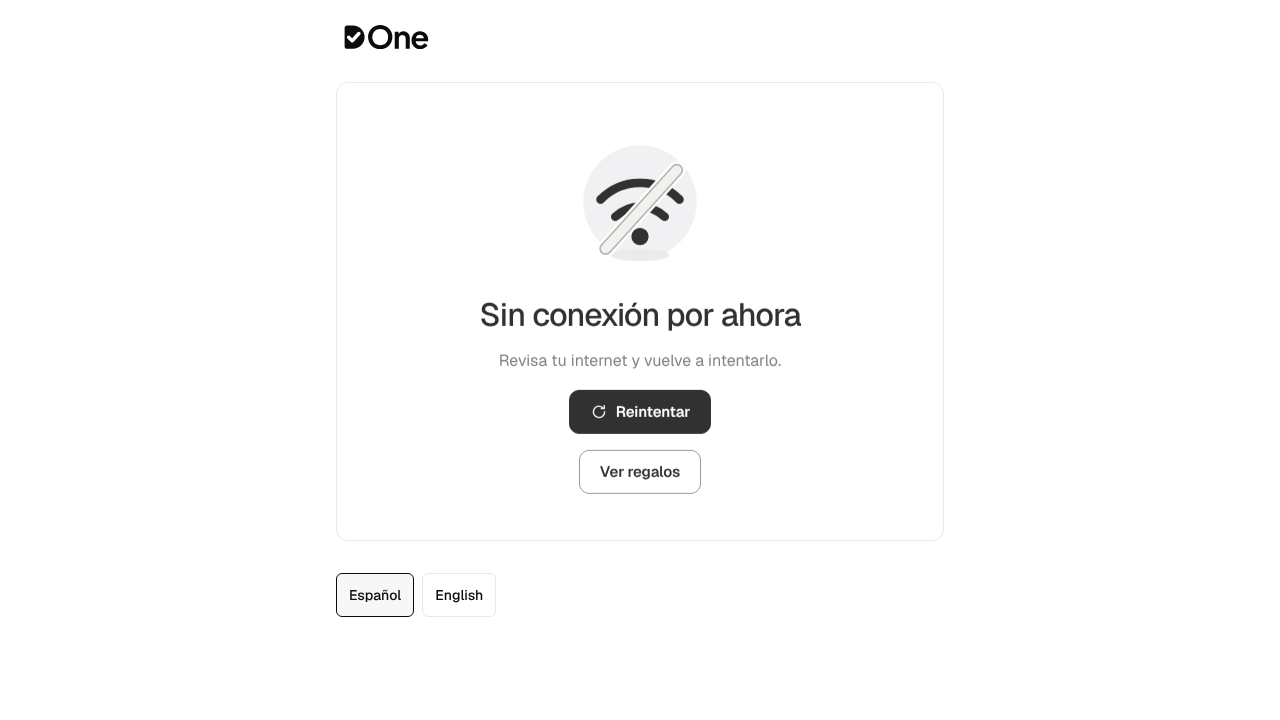
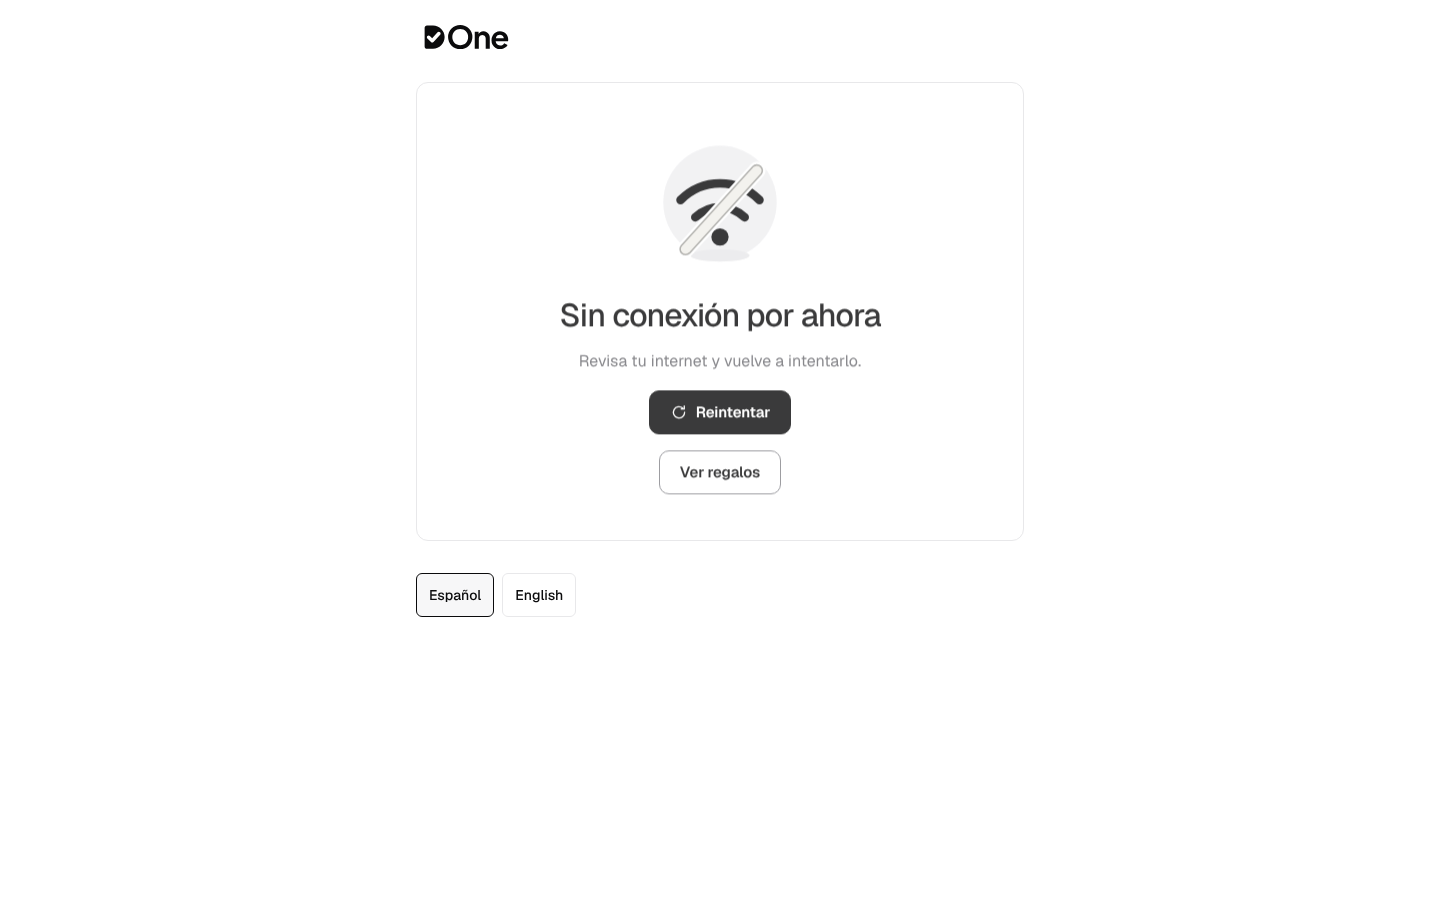
docs(progress): ronda 2 de F6-b, tamaños de bundle y evidencia (PL-134-R2-M1..M3)
Claude-Session: https://claude.ai/code/session_01ATKb2KvLigb6KdicRVkqPt

diff --git a/apps/universal/playwright.states.config.ts b/apps/universal/playwright.states.config.ts
@@ -15,8 +15,9 @@ export default defineConfig({
   testDir: "./e2e",
   testMatch: /preview-states\.spec\.ts/,
   workers: 1,
+  timeout: 150_000,
   reporter: "list",
-  use: { baseURL: `http://localhost:${STATES_PORT}`, launchOptions: { ...(executablePath ? { executablePath } : {}) } },
+  use: { baseURL: `http://localhost:${STATES_PORT}`, locale: "es-BO", launchOptions: { ...(executablePath ? { executablePath } : {}) } },
   webServer: [
     { command: "npx vite-node scripts/visual-mock.ts", url: `http://localhost:${MOCK_PORT}/celebrations`, reuseExistingServer: false, timeout: 60_000, env: { MOCK_PORT: String(MOCK_PORT) } },
     { command: `npx expo start --web --port ${STATES_PORT} --clear`, url: `http://localhost:${STATES_PORT}`, reuseExistingServer: false, timeout: 240_000, env: { CI: "1", EXPO_PUBLIC_API_URL: `http://localhost:${MOCK_PORT}`, EXPO_PUBLIC_DEV_ACCESS_TOKEN: HOST_TOKEN, EXPO_PUBLIC_SITE_URL: `http://localhost:${SITE_PORT}` } }

diff --git a/apps/universal/e2e/preview-states.spec.ts b/apps/universal/e2e/preview-states.spec.ts
@@ -7,7 +7,7 @@ const OUT = process.env["STATES_EVIDENCE_DIR"];
 
 test("PL-134-R2-m3 · the host preview shows the offline state when the site does not answer, and retry goes back to loading", async ({ page }) => {
   await page.setViewportSize({ width: 390, height: 844 });
-  await page.goto(`/preview?c=${MOCK_CELEBRATION_ID}`, { waitUntil: "domcontentloaded" });
+  await page.goto(`/preview?c=${MOCK_CELEBRATION_ID}`, { waitUntil: "domcontentloaded", timeout: 120_000 });
   const error = page.getByTestId("preview-error").first();
   await expect(error).toBeVisible({ timeout: 30_000 });
   await expect(error).toHaveAttribute("role", "alert");

diff --git a/docs/progress/plantillas-f6b-nativo.md b/docs/progress/plantillas-f6b-nativo.md
@@ -32,8 +32,15 @@ Corrige: PL-F6 (P10), PL-L3. Rama `feat/plantillas-f6b-nativo` sobre `feat/plant
 - M4: la vista previa web falla por `error` del iframe, a los 3 s de su `load` si la página no avisa, o a los 8 s si no carga.
 - m1: la regla de encabezados usa `(?!vista-previa$)`. m2: `/vista-previa` ya no lleva CSP-Report-Only. m3: el 404 de la invitación no ofrece «Ver regalos» a propósito (no hay invitación ni lista); se documenta aquí.
 - No hecho: m4 (logo del sitio duplicado en oscuro dentro de la vista previa), m5 (marco del admin a 390), m6 parcial (los enlaces inertes siguen en el Tab: quitarlos del Tab deja la navegación desplazable sin contenido enfocable y axe lo marca como serio).
-- Hallazgo de la base (#131): `design/render` importa `postcss`, y Metro tomaba su envoltorio ESM: el bundle web del universal fallaba al cargar con «Cannot read properties of undefined (reading 'stringify')». `apps/universal/metro.config.js` fuerza la entrada CJS de postcss.
+- Hallazgo de la base (#131): la app importaba el barril de `@rsvp/celebration-theme`, que arrastra el renderizador y `postcss`; el bundle web fallaba al cargar. La ronda 2 lo arregla de raíz (R2-M1).
 
 ### Líneas base macOS que cambian (no regeneradas desde Linux)
 
 `host-vista-previa-{390,768,1440}`, `host-templates-{390,768,1440}`, `host-editor-general-{390,768,1440}`. El gate visual no define `EXPO_PUBLIC_SITE_URL`: regenerar exige el sitio servido, o se captura el esqueleto.
+
+## Ronda 2 (PL-134-R2-M1..M3, m1..m3)
+
+- R2-M1: causa raíz, no alias. `@rsvp/celebration-theme/model` (`src/model.ts`) exporta tipos, tema, contenido, formatos, mensaje de vista previa y lectores del documento, sin renderizador ni parser de CSS. La app lo consume y se quitó el alias de `metro.config.js`. Una prueba sigue los imports de `model.ts` y falla si llegan el renderizador, `sections/`, `custom/` o `postcss`. Bundle `entry` web: 2.533.127 B (682.050 gzip) con el alias y el barril; 2.358.953 B (631.992 gzip) con `/model`: -174 KB (-50 KB gzip), sin `postcss` en el bundle. iOS (Hermes): 6,74 MB.
+- R2-M2: la sonda pide `/icon.svg` (estático), no la página. Límite: `no-cors` da una respuesta opaca; no se lee el estado, solo si el sitio responde. Un 5xx de la página lo muestra la página de error del sitio; en nativo sí se lee y se muestra `unavailable`.
+- R2-M3: una sola anchura (`GUEST_COLUMN`, 640 px) para carga, sin red y no disponible; e2e a 1440 compara ambas. Fase nueva `misconfigured` (despliegue que se cargaría a sí mismo): sin «Reintentar», solo «Ver regalos».
+- m1: el script en línea escapa `<` (`\u003c`). m2: el comentario del spec dice que hace falta `EXPO_PUBLIC_API_URL=/api` y `--clear`. m3: `apps/universal/e2e/preview-states.spec.ts` (config `playwright.states.config.ts`): vista previa del anfitrión con sesión simulada y el sitio sin responder; captura `vista-previa-sin-red.png`.
